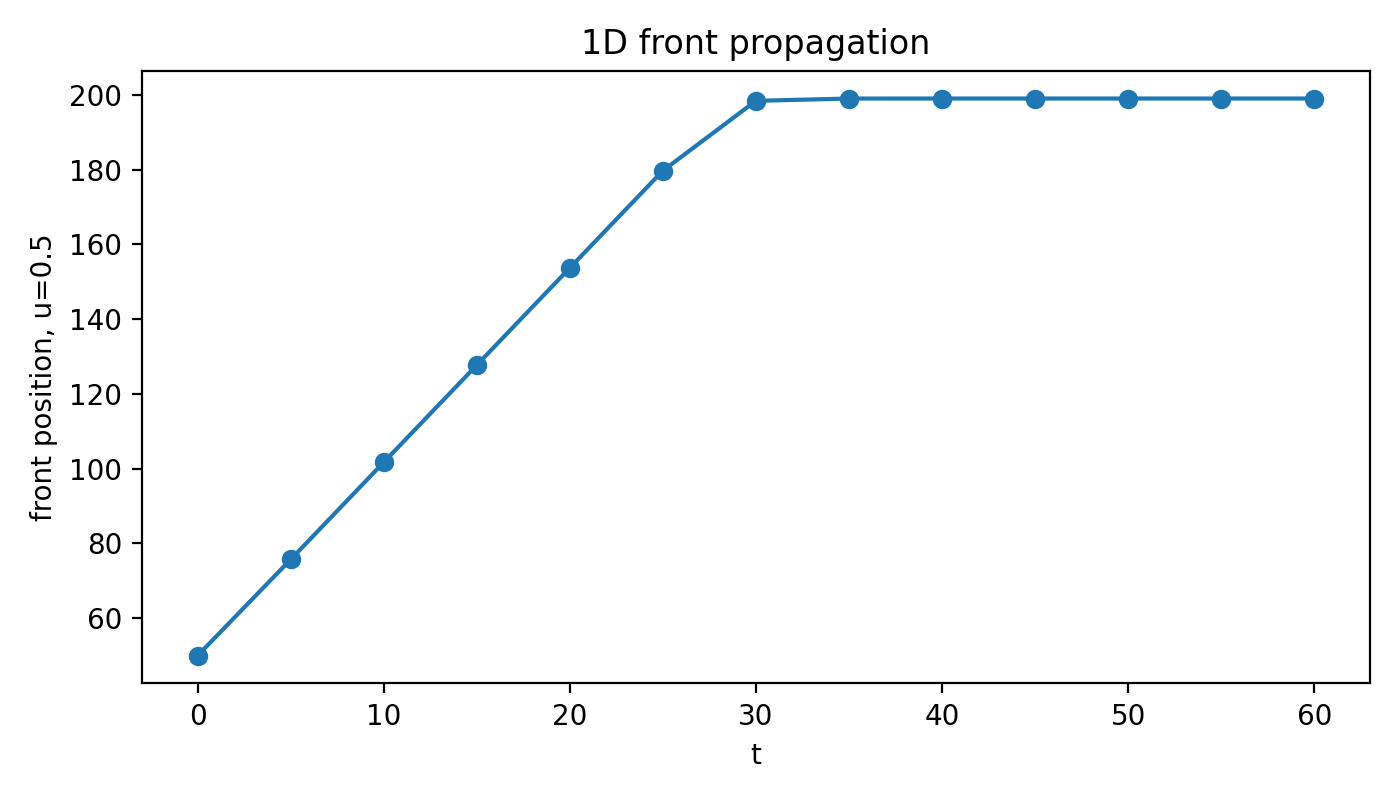
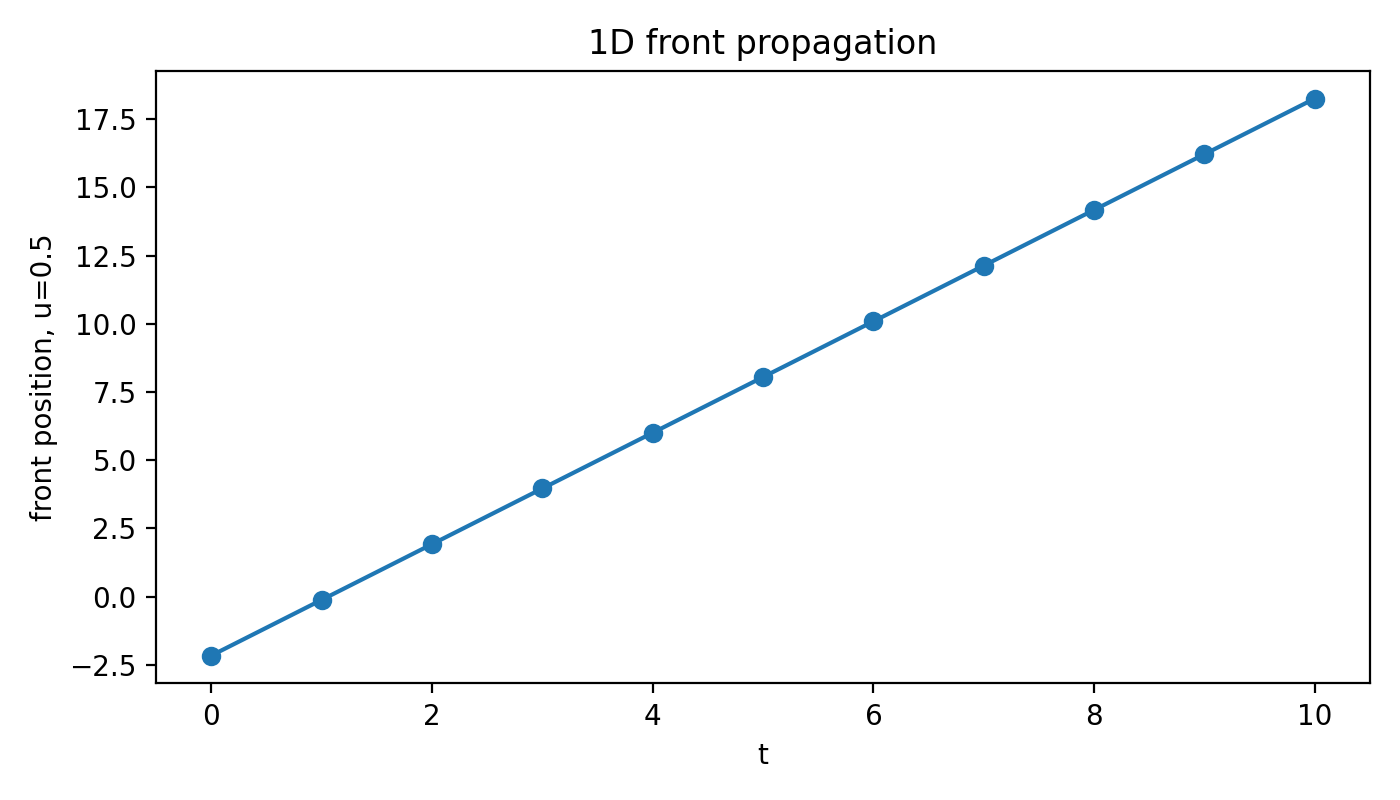
Align RK4 benchmark with exact Fisher-KPP regimes

diff --git a/scripts/build_technical_docs.py b/scripts/build_technical_docs.py
@@ -354,63 +354,71 @@ PINN_REFERENCES = [
 ]
 
 
-RK4_PAGES: list[tuple[str, list[str], tuple[list[str], list[list[str]], list[float]] | None]] = [
+RK4_PAGES = [
     (
-        "1. PDE와 비교 기준",
+        "1. Fisher-KPP 검증 regime",
         [
-            "RK4와 PDE 수치해석 계열은 u_t = D Laplacian(u) + r u(1-u)를 기준 방정식으로 사용한다. 기본 synthetic 문제와 산림청 문제는 같은 Fisher-KPP family로 정리되며, 기본 문제에서는 Gaussian seed 또는 Ablowitz-Zeppetella travelling wave를 사용하고, 산림청 문제에서는 gridded observation density를 초기장으로 사용한다.",
-            "Ablowitz-Zeppetella 기준은 c = 5/sqrt(6)에서 명시적 travelling wave가 존재하므로, forward solver와 PINN이 front phase를 얼마나 따라가는지 확인하기 좋다. 1D 물리 좌표 x in [-20,20]은 단위 좌표로 변환되고, 따라서 코드상 diffusion은 D_norm = 1/40^2로 들어간다.",
-            "공정 비교는 같은 PDE, 같은 초기조건, 같은 final time, 같은 공간 grid, 같은 metric을 사용한다. RK4, explicit Euler, backward Euler, trapezoidal은 시간 적분법만 다르게 두고 나머지 조건을 고정한다. same-problem RK4는 현재 PINN 문제 설정과 동일한 초기장, 계수, boundary condition, 평가 지표를 사용한다.",
+            "본 RK4 모듈의 기본 검증 문제는 Fisher-KPP 반응-확산 방정식 u_t = D Δu + r u(1-u)이다. 이번 수정에서는 시간 적분법을 변경하지 않고, 검증 regime만 폐형식 travelling-wave 해가 존재하는 문제로 정렬하였다. 목적은 수치해가 정확해와 직접 비교될 수 있도록 초기조건, Dirichlet boundary condition, 최종 시간, 격자, 오차 지표를 모두 같은 해에서 유도하는 것이다.",
+            "1차원 기준 문제는 Ablowitz-Zeppetella travelling wave이다. 확산계수와 반응계수는 D = 1, r = 1로 두며, 특수 파속 c = 5/sqrt(6)에서 u(x,t) = {1 + exp[(x - c t - x0)/sqrt(6)]}^{-2}가 정확해가 된다. 계산 영역은 x in [-20, 20], 최종 시간은 T = 10, 기본 격자는 Nx = 201, 시간 간격은 dt = 0.005이다.",
+            "2차원 기준 문제는 generalized Fisher-KPP exact wave의 p = 1 경우이다. 방정식은 u_t = u_xx + u_yy + u(1-u)이고, phi = pi/4, C = 0을 두면 u(x,y,t) = [0.5 tanh((x+y)/(4 sqrt(3)) + 5t/12) + 0.5]^2가 정확해이다. 계산 영역은 x,y in [-15, 15], 최종 시간은 T = 3, 기본 격자는 61 x 61, 시간 간격은 dt = 0.01이다.",
+            "두 문제 모두 초기조건은 정확해의 t = 0 단면을 사용한다. 1D에서는 양 끝점 x = -L/2, x = L/2의 Dirichlet 값을 정확해에서 가져오고, 2D에서는 네 변 x = -L/2, x = L/2, y = -L/2, y = L/2의 Dirichlet 값을 같은 2D 정확해에서 가져온다. 따라서 경계 오차와 내부 시간 적분 오차를 분리하여 평가할 수 있다.",
         ],
         (
-            ["비교 요소", "고정 기준"],
+            ["항목", "1D 기준", "2D 기준"],
             [
-                ["PDE", "동일한 Fisher-KPP D, r, boundary condition"],
-                ["초기조건", "Gaussian seed, AZ exact profile, 또는 산림청 첫 관측 밀도"],
-                ["평가지표", "final L2, max abs error, front area, active-front, mass"],
+                ["PDE", "u_t = u_xx + u(1-u)", "u_t = u_xx + u_yy + u(1-u)"],
+                ["Exact solution", "Ablowitz-Zeppetella exponential wave", "Generalized Fisher-KPP tanh wave, p=1"],
+                ["Domain", "[-20, 20]", "[-15, 15] x [-15, 15]"],
+                ["Default grid/time", "Nx=201, T=10, dt=0.005", "61x61, T=3, dt=0.01"],
             ],
-            [1.55, 5.50],
+            [1.35, 2.95, 3.25],
         ),
     ),
     (
-        "2. RK4 구현과 안정성",
+        "2. 공간 이산화와 Dirichlet boundary",
         [
-            "RK4는 method-of-lines 방식이다. 먼저 공간 Laplacian을 finite difference로 이산화하고, resulting ODE system을 네 단계 Runge-Kutta로 적분한다. 기본 2D square 문제에서는 no-flux Neumann boundary를 edge padding으로 구현한다. AZ 2D 검증은 exact travelling-wave profile을 x 방향으로 반복하고 boundary에는 exact Dirichlet 값을 적용한다.",
-            "명시적 RK4도 확산 CFL 제약을 피할 수 없다. 현재 안정성 점검은 dt_diff_limit = 0.69 dx^2 / (dim D)와 reaction scale 1/r 중 작은 값을 safety factor와 비교한다. 산림청 masked RK4도 같은 취지로 dt가 diffusion/reaction practical limit을 넘으면 에러를 내며, land/sea 경계에서는 masked no-flux flux를 사용한다.",
-            "RK4는 정확한 초기장과 계수가 주어진 forward problem에서 낮은 격자 오차를 제공한다. PINN은 연속 함수와 계수, residual, 관측, front 제약을 동시에 최적화한다. 따라서 RK4는 reference solver로, PINN은 inverse와 sparse-data 상황까지 포괄하는 continuous surrogate로 배치된다.",
+            "공간 이산화는 method-of-lines 관점에서 수행된다. 1D 격자는 x_i = -L/2 + i Δx, i = 0, 1, ..., Nx - 1로 정의하고, 내부점 i = 1, ..., Nx - 2에서 u_xx ≈ (u_{i-1} - 2u_i + u_{i+1}) / Δx^2의 중심차분을 사용한다. 양 끝점은 미지수가 아니라 정확해에서 산출된 boundary value로 고정된다.",
+            "1D Dirichlet boundary contribution을 포함하면 내부점에 대한 Laplacian matrix는 삼중대각 행렬이 된다. 본 RK4 구현에서는 전체 벡터에 boundary 값을 먼저 삽입하고, 내부점에 대해서만 RHS를 계산한다. 이 방식은 행렬을 명시적으로 구성하지 않아도 동일한 중심차분 stencil과 boundary contribution을 재현한다.",
+            "2D에서는 동일한 중심차분 stencil을 x, y 방향에 적용한다. 내부 격자점에서 Δu ≈ (u_{i-1,j} - 2u_{i,j} + u_{i+1,j})/Δx^2 + (u_{i,j-1} - 2u_{i,j} + u_{i,j+1})/Δy^2이며, 정사각 균일 격자를 사용하므로 Δx = Δy이다. 행렬 관점에서는 L_2D = L_x ⊗ I_y + I_x ⊗ L_y로 해석된다.",
+            "이번 regime에서 2D boundary는 no-flux가 아니라 exact Dirichlet boundary이다. 매 RK4 stage마다 stage time에 해당하는 정확해를 네 변에 다시 삽입한다. 따라서 수치해가 받는 경계 정보는 분석해와 일치하며, final relative L2와 absolute error map은 공간 이산화와 RK4 시간 적분에서 발생한 오차를 주로 반영한다.",
         ],
         (
-            ["구현 함수", "역할"],
+            ["구분", "적용 방식"],
             [
-                ["forward_fisher_kpp_rk4", "Gaussian seed 2D same-problem reference"],
-                ["forward_ablowitz_zeppetella_rk4", "AZ travelling wave exact-boundary reference"],
-                ["simulate_density_rk4_at_times", "산림청 월별/연도별 arbitrary output time reference"],
+                ["1D 내부점", "second-order central finite difference"],
+                ["1D boundary", "u(-L/2,t), u(L/2,t)를 정확해에서 부여"],
+                ["2D 내부점", "L_x ⊗ I_y + I_x ⊗ L_y 형태의 five-point Laplacian"],
+                ["2D boundary", "네 변 모두 generalized Fisher-KPP 정확해에서 부여"],
             ],
-            [2.05, 5.00],
+            [2.10, 4.95],
         ),
     ),
     (
-        "3. 산림청 PDE/RK4와 조치 전 월별 축",
+        "3. RK4 시간 적분과 안정성 판정",
         [
-            "산림청 RK4는 첫 관측 밀도를 초기조건으로 놓고, land mask 내부에서만 반응-확산을 진행한다. 바다 셀은 0으로 유지되며, diffusion은 land/sea 경계에서 바다로 흐르지 않는다. 물리 prior는 기본적으로 D = 15.5 km^2/year, r = 0.70 1/year이고, front speed는 2 sqrt(D r) = 6.5879 km/year로 계산된다.",
-            "좌표 정규화 때문에 D는 두 단계로 해석된다. 물리 diffusion D_phys는 grid scale L_km에 의해 D_norm = D_phys / L_km^2로 바뀌고, 실제 PDE residual이나 RK4에서는 x/y extent 차이에 맞춰 D_x = D_phys / width_km^2, D_y = D_phys / height_km^2가 쓰인다. reaction은 시간 단위가 year이므로 r_per_year로 그대로 들어간다.",
-            "조치 전 월별 모드는 raw CSV의 조사일자와 방제완료여부를 사용한다. 기본 proxy는 누적 infected and completed count가 50,000을 넘는 첫 날짜이고, 제공 raw bundle에서는 2016-10-02가 나온다. 그래서 기본 비교는 2016-01부터 2016-09까지의 observed density, RK4 density, PINN density를 같은 elapsed-year time grid에서 비교한다.",
+            "시간 적분은 고전적 4단계 Runge-Kutta 방법을 그대로 사용한다. 반이산화된 ODE를 u_t = F(u,t)로 쓰면 k1 = F(u^n,t_n), k2 = F(u^n + dt k1/2, t_n + dt/2), k3 = F(u^n + dt k2/2, t_n + dt/2), k4 = F(u^n + dt k3, t_n + dt)이고, u^{n+1} = u^n + dt(k1 + 2k2 + 2k3 + k4)/6으로 갱신한다.",
+            "Dirichlet 문제에서는 각 stage 입력장에 해당 stage time의 boundary value를 먼저 삽입한 뒤 RHS를 계산한다. 따라서 k1, k2, k3, k4가 모두 같은 물리적 boundary condition 아래에서 계산된다. 이 절차는 방법을 바꾸는 것이 아니라, 정확해 기반 검증 문제에 맞도록 stage boundary를 일관되게 적용하는 것이다.",
+            "명시적 RK4는 diffusion-dominated semi-discrete system에서 안정성 제약을 가진다. 코드의 실용 판정은 dt_diff_limit = 0.69 Δx^2 / (dim D)와 reaction scale 1/r 중 작은 값을 safety factor와 비교한다. 1D 기본값 dt = 0.005와 2D 기본값 dt = 0.01은 해당 기준 안에 있으며, 안정성 위반 시 실행 전에 오류를 발생시킨다.",
+            "오차 평가는 exact final field와 numerical final field의 relative L2, final absolute error, 1D front position, 2D mass 및 front-area 지표로 수행한다. 정확해 기반 regime이므로 RK4 결과는 단순한 reference curve가 아니라 분석해와 직접 대조되는 수치해이다. 별도의 forward Euler, backward Euler, trapezoidal 비교에서는 같은 grid, 같은 dt, 같은 초기조건을 유지하여 시간 적분법의 차이만 관찰한다.",
         ],
         (
-            ["값", "현재 기본값"],
+            ["항목", "검증 원칙"],
             [
-                ["D_phys", "15.5 km^2/year"],
-                ["r_phys", "0.70 1/year"],
-                ["action proxy", "cumulative infected-completed count > 50,000, default 2016-10-02"],
+                ["Method", "classical RK4, four-stage explicit time integration"],
+                ["Stage boundary", "각 stage time의 exact Dirichlet 값을 삽입"],
+                ["Stability", "diffusion scale과 reaction scale을 동시에 점검"],
+                ["Metrics", "relative L2, absolute error, front/mass diagnostics"],
             ],
-            [1.55, 5.50],
+            [1.75, 5.30],
         ),
     ),
     (
-        "4. 공정 비교와 참고문헌",
+        "4. 결과 해석과 보고 기준",
         [
-            "RK4와 implicit/explicit 계열 수치해석법의 공정 비교는 accuracy, stability, solve cost를 함께 평가한다. explicit methods는 안정성 조건을 직접 반영하고 구현이 단순하다. backward Euler와 trapezoidal은 큰 dt에서도 안정적인 시간 적분을 제공하며 step마다 선형 또는 비선형 solve를 수행한다. RK4는 네 개의 stage를 사용해 같은 grid와 smooth solution에서 높은 정확도와 구현 균형을 제공한다.",
-            "산림청 문제의 PDE/RK4 계열은 관측된 감염 밀도를 시작점으로 land-constrained Fisher-KPP spread를 계산한다. 방제, 신고 지연, 벌목, 기주 분포, 매개충 이동 효과는 effective D/r과 관측 밀도장에 반영되며, RK4 결과는 PINN과 같은 조건에서 비교되는 forward numerical reference로 사용된다.",
+            "1D 결과에서 front가 오른쪽으로 이동하고 final relative L2가 작은 값으로 유지되면, 중심차분 공간 이산화와 RK4 시간 적분이 Ablowitz-Zeppetella travelling wave의 phase와 profile을 함께 포착하고 있음을 의미한다. 격자를 세분화하면 중심차분의 2차 공간 정확도에 따라 오차가 감소하는 경향을 보이며, dt를 충분히 줄인 조건에서는 공간 오차가 전체 오차를 지배한다.",
+            "2D 결과에서 tanh front가 대각선 방향으로 이동하고 exact final field와 수치해의 차이가 작으면, Kronecker 형태의 2D Laplacian stencil과 stage별 exact Dirichlet 처리가 정상적으로 작동한다고 해석한다. 2D 문제는 내부 격자점 수가 (Nx - 2)(Ny - 2)에 비례하므로 격자 세분화는 정확도 향상과 계산비 증가를 동시에 유발한다.",
+            "보고서와 notebook의 핵심 표기는 PDE, 정확해, 초기조건, boundary condition, 공간 이산화, RK4 stage 적용 순서, 안정성 판정, 오차 지표의 순서로 구성한다. 이는 사진의 설명 흐름을 따르되, 연구 재현성을 위해 모든 상수와 비교 기준을 명시한 형식이다. 본 문서의 수식과 코드 설정은 fisher-kpp-rk4 패키지의 현재 기본값과 일치한다.",
+            "이 기준은 RK4를 다른 방법으로 대체하지 않는다. 변경된 것은 검증 regime이며, solver는 여전히 method-of-lines, second-order central finite difference, classical RK4를 사용한다. 따라서 기존 RK4 결과와 새 결과의 차이는 수치법 변경이 아니라 정확해를 갖는 Fisher-KPP benchmark로 문제 설정을 정렬한 데서 발생한다.",
         ],
         None,
     ),
@@ -464,8 +472,8 @@ def build_pinn_doc(path: Path) -> None:
 
 def build_rk4_doc(path: Path) -> None:
     document = Document()
-    _configure_document(document, "RK4 및 Fisher-KPP PDE 구현 설명")
-    _add_title(document, "RK4 및 Fisher-KPP PDE 구현 설명", "Fisher-KPP PDE 수치해석 구현 사양")
+    _configure_document(document, "Fisher-KPP RK4 검증 regime 및 수치해석 사양")
+    _add_title(document, "Fisher-KPP RK4 검증 regime 및 수치해석 사양", "Exact travelling-wave benchmark 기반 1D/2D RK4 보고서")
     _build_pages(document, RK4_PAGES, RK4_REFERENCES)
     _audit_all_runs(document)
     document.save(path)

diff --git a/fisher-kpp-rk4/scripts/run_demo.py b/fisher-kpp-rk4/scripts/run_demo.py
@@ -23,11 +23,11 @@ from fisher_kpp_rk4.config import (
     T,
     T_2D,
     ablowitz_zeppetella_exact,
-    ablowitz_zeppetella_exact_2d,
     dt,
     dt_2d,
     dx,
     dx_2d,
+    generalized_fisher_kpp_exact_2d,
     initial_condition,
     initial_condition_2d,
     left_bc,
@@ -73,7 +73,7 @@ def run_1d() -> dict[str, np.ndarray]:
 
 def run_2d() -> dict[str, np.ndarray]:
     info = check_rk4_stability(dx=dx_2d, dt=dt_2d, D=D_2D, r=r_2D, dim=2)
-    print("\n=== 2D Fisher-KPP RK4 ===")
+    print("\n=== 2D generalized Fisher-KPP exact-wave RK4 ===")
     print(f"D={D_2D}, r={r_2D}, box={BOX_2D}, T={T_2D}")
     print(f"grid={GRID_2D}x{GRID_2D}, dx={dx_2d:.6g}, Nt={Nt_2d}, dt={dt_2d:.6g}")
     print(f"Practical dt safe? {info['is_practically_safe']} (limit={info['dt_practical']:.6g})")
@@ -88,7 +88,7 @@ def run_2d() -> dict[str, np.ndarray]:
         initial_condition=initial_condition_2d,
         save_interval=0.05,
         boundary_condition="dirichlet_exact",
-        exact_solution=ablowitz_zeppetella_exact_2d,
+        exact_solution=generalized_fisher_kpp_exact_2d,
     )
     print(f"Final mean mass = {result['mass'][-1]:.6g}")
     print(f"Final area u>=0.05 = {result['area_ge_0.05'][-1]:.6g}")
@@ -140,13 +140,13 @@ def save_plots(result_1d: dict[str, np.ndarray], result_2d: dict[str, np.ndarray
             extent=[result_2d["x"][0], result_2d["x"][-1], result_2d["y"][0], result_2d["y"][-1]],
             vmin=0.0,
             vmax=1.0,
-            cmap="magma",
+            cmap="cividis",
         )
         ax.set_title(f"t={times[idx]:.2f}")
         ax.set_xlabel("x")
         ax.set_ylabel("y")
     fig.colorbar(im, ax=axes, shrink=0.82)
-    fig.suptitle("2D Fisher-KPP RK4 snapshots")
+    fig.suptitle("2D generalized Fisher-KPP exact-wave RK4 snapshots")
     fig.savefig(OUTPUT_DIR / "snapshots_2d.png", dpi=200)
     plt.close(fig)
 

diff --git a/fisher-kpp-rk4/src/fisher_kpp_rk4/config.py b/fisher-kpp-rk4/src/fisher_kpp_rk4/config.py
@@ -38,9 +38,12 @@ def right_bc(t: float) -> float:
     return float(ablowitz_zeppetella_exact(np.asarray([x_right]), t)[0])
 
 
-# 2D exact ridge setup: u(x,y,t)=u_AZ(x,t), so u_yy=0 --------------------------
+# 2D generalized Fisher-KPP exact traveling-front setup ------------------------
 D_2D = 1.0
 r_2D = 1.0
+P_2D = 1.0
+PHI_2D = np.pi / 4.0
+C_2D = 0.0
 L_2D = 30.0
 BOX_2D = L_2D
 x_left_2d = -15.0
@@ -57,12 +60,33 @@ dt_2d = T_2D / TRUTH_STEPS_2D
 Nt_2d = TRUTH_STEPS_2D
 
 
+def generalized_fisher_kpp_exact_2d(
+    x: np.ndarray,
+    y: np.ndarray,
+    t: float | np.ndarray,
+    *,
+    p: float = P_2D,
+    phi: float = PHI_2D,
+    c0: float = C_2D,
+) -> np.ndarray:
+    if p <= 0.0:
+        raise ValueError("p must be positive for the generalized Fisher-KPP exact solution.")
+    x_arr = np.asarray(x, dtype=np.float64)
+    y_arr = np.asarray(y, dtype=np.float64)
+    t_arr = np.asarray(t, dtype=np.float64)
+    spatial = x_arr * np.sin(phi) + y_arr * np.cos(phi)
+    psi = (p / (2.0 * np.sqrt(2.0 * p + 4.0))) * spatial
+    psi = psi + (p * (p + 4.0) / (4.0 * (p + 2.0))) * t_arr + c0
+    base = 0.5 * np.tanh(psi) + 0.5
+    return np.power(np.clip(base, 0.0, 1.0), 2.0 / p)
+
+
 def initial_condition_2d(x: np.ndarray, y: np.ndarray) -> np.ndarray:
-    return ablowitz_zeppetella_exact(x, 0.0)
+    return generalized_fisher_kpp_exact_2d(x, y, 0.0)
 
 
 def ablowitz_zeppetella_exact_2d(x: np.ndarray, y: np.ndarray, t: float | np.ndarray) -> np.ndarray:
-    return ablowitz_zeppetella_exact(x, t)
+    return generalized_fisher_kpp_exact_2d(x, y, t)
 
 
 # Kept for compatibility with implicit solvers; RK4 does not use them.

diff --git a/fisher-kpp-rk4/tests/test_solver.py b/fisher-kpp-rk4/tests/test_solver.py
@@ -32,9 +32,9 @@ from fisher_kpp_rk4.config import (
     Nt,
     T,
     ablowitz_zeppetella_exact,
-    ablowitz_zeppetella_exact_2d,
     c,
     dt,
+    generalized_fisher_kpp_exact_2d,
     left_bc,
     LONG_TIME_D,
     LONG_TIME_DT,
@@ -117,7 +117,7 @@ def test_2d_rk4_shapes_bounds_and_front_areas() -> None:
     assert result["mass"].shape == result["times"].shape
 
 
-def test_ablowitz_zeppetella_2d_rk4_matches_exact_solution() -> None:
+def test_generalized_fisher_kpp_2d_rk4_matches_exact_solution() -> None:
     result = solve_rk4_2d(
         x=x_2d,
         y=y_2d,
@@ -128,7 +128,7 @@ def test_ablowitz_zeppetella_2d_rk4_matches_exact_solution() -> None:
         initial_condition=initial_condition_2d,
         save_interval=0.5,
         boundary_condition="dirichlet_exact",
-        exact_solution=ablowitz_zeppetella_exact_2d,
+        exact_solution=generalized_fisher_kpp_exact_2d,
     )
     assert float(result["relative_l2_final"]) < 3.0e-3
 

diff --git a/fisher-kpp-rk4/scripts/run_convergence.py b/fisher-kpp-rk4/scripts/run_convergence.py
@@ -18,7 +18,7 @@ from fisher_kpp_rk4.config import (
     T,
     T_2D,
     ablowitz_zeppetella_exact,
-    ablowitz_zeppetella_exact_2d,
+    generalized_fisher_kpp_exact_2d,
     initial_condition,
     initial_condition_2d,
     left_bc,
@@ -66,9 +66,9 @@ def run_case_2d(grid: int, steps: int) -> dict[str, np.ndarray]:
         D=D_2D,
         r=r_2D,
         initial_condition=initial_condition_2d,
-        save_interval=T,
+        save_interval=T_2D,
         boundary_condition="dirichlet_exact",
-        exact_solution=ablowitz_zeppetella_exact_2d,
+        exact_solution=generalized_fisher_kpp_exact_2d,
     )
 
 

diff --git a/fisher-kpp-rk4/src/fisher_kpp_rk4/solver.py b/fisher-kpp-rk4/src/fisher_kpp_rk4/solver.py
@@ -646,7 +646,7 @@ def solve_rk4_2d(
     boundary_condition: str = "neumann",
     exact_solution=None,
 ) -> dict[str, np.ndarray]:
-    """Solve the 2D Fisher-KPP equation with no-flux boundaries."""
+    """Solve the 2D Fisher-KPP equation with no-flux or exact Dirichlet boundaries."""
     x = np.asarray(x, dtype=np.float64)
     y = np.asarray(y, dtype=np.float64)
     if x.ndim != 1 or y.ndim != 1 or len(x) != len(y):

diff --git a/fisher-kpp-rk4/README.md b/fisher-kpp-rk4/README.md
@@ -6,9 +6,9 @@ It includes both:
 
 - **1D Ablowitz-Zeppetella traveling-wave Fisher-KPP** with time-dependent
   Dirichlet boundaries.
-- **2D ridge-wave Fisher-KPP** using the same exact wave in `x`, exact
-  time-dependent Dirichlet boundaries, and relative-L2 checks against the
-  analytic solution.
+- **2D generalized Fisher-KPP traveling wave** with `p=1`, `phi=pi/4`,
+  exact time-dependent Dirichlet boundaries, and relative-L2 checks against the
+  analytic tanh solution.
 
 ## Equations
 
@@ -23,6 +23,10 @@ u_t = D u_xx + r u(1-u)
 ```text
 u_t = D (u_xx + u_yy) + r u(1-u)
 ```
+
+The default demo uses `D=r=1`. In 2D this is the `p=1` member of the
+generalized Fisher-KPP exact-wave family, so the reaction term is again
+`u(1-u)`.
 
 ## Project Structure
 
@@ -66,15 +70,26 @@ python scripts/run_convergence.py
 
 This writes `outputs/convergence_summary.csv` with both 1D and 2D relative-L2 checks.
 
-The default short benchmark follows the exact Ablowitz-Zeppetella wave for
-`u_t = u_xx + u(1-u)`:
+The default short benchmark follows the exact traveling-wave regimes used for
+direct numerical verification:
 
 ```text
+1D:
+u_t = u_xx + u(1-u)
 c = 5/sqrt(6)
 u(x,t) = (1 + exp((x - c t - x0)/sqrt(6)))^-2
-1D: x in [-20, 20], T=10, Nx=201, dt=0.005
-2D: x,y in [-15, 15], T=3, grid=61x61, dt=0.01
+x in [-20, 20], T=10, Nx=201, dt=0.005
+
+2D:
+u_t = u_xx + u_yy + u(1-u)
+u(x,y,t) = [0.5 tanh((x+y)/(4 sqrt(3)) + 5t/12) + 0.5]^2
+x,y in [-15, 15], T=3, grid=61x61, dt=0.01
 ```
+
+Initial conditions and all Dirichlet boundary values are taken from the same
+exact solution. The RK4 method, finite-difference stencil, and comparison
+metrics are unchanged; only the benchmark problem definition is set to the
+formal exact-wave regime above.
 
 ## Long-Time Method Comparison
 
@@ -327,6 +342,6 @@ before release.
 ## Notes
 
 - Classical RK4 is explicit. The solver reports a practical diffusion-reaction stability estimate.
-- The 2D default uses `D=1`, `r=1`, `x,y in [-15,15]`, `T=3`, `grid=61`, and exact time-dependent Dirichlet boundaries from the Ablowitz-Zeppetella wave.
+- The 2D default uses `D=1`, `r=1`, `x,y in [-15,15]`, `T=3`, `grid=61`, and exact time-dependent Dirichlet boundaries from the generalized Fisher-KPP tanh wave.
 - Scalar Fisher-KPP with positive diffusion and logistic reaction follows a maximum-principle/front-propagation regime. The long-time plots therefore show surface, probe, front, and mass trends; they are not intended to reproduce intrinsic damped oscillations unless the PDE/model is changed.
 - `tol` and `max_iter` are retained only for compatibility with implicit-solver experiments; RK4 does not use nonlinear iterations.
